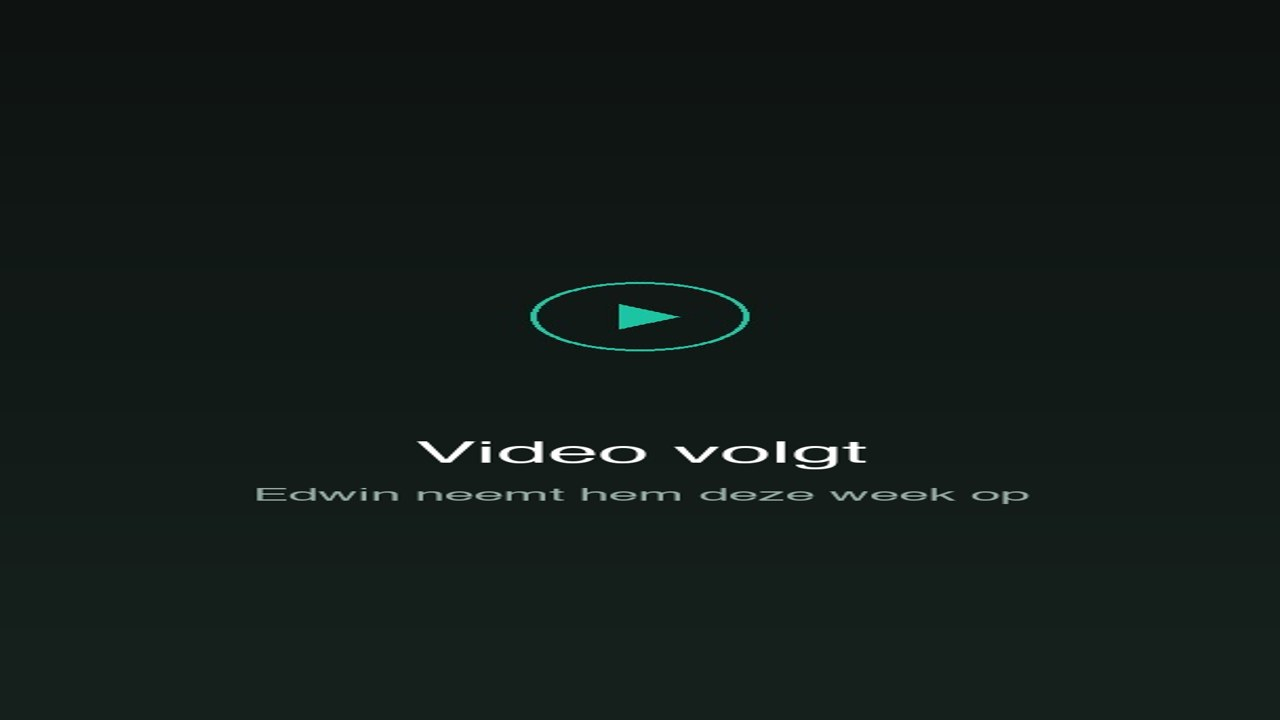
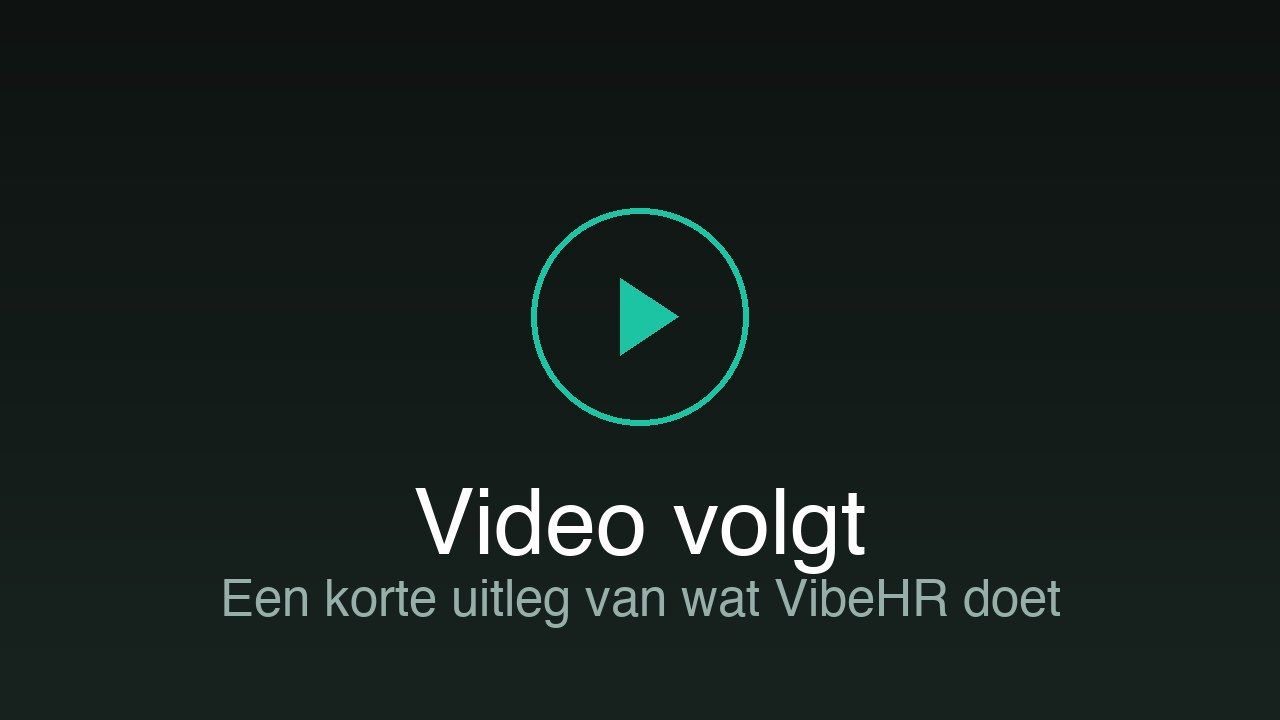
VibeHR: dossier leesbaar, stappen uitgelijnd, video is productuitleg
Drie dingen uit Simons review van 15 oktober.

1. 'Dit is wat ik vond' stond in lichte letters op een licht vlak. lp12.css
   geeft .dosveld een achtergrond via --wit en --chrome, en op een donker
   thema klopt dat niet. Het paneel is nu donker in hun eigen kaartstijl.
2. De vier stappen stonden op 900px terwijl de video 720 is, dus niet
   centraal eronder. Nu dezelfde breedte.
3. De video is geen opname van Edwin maar een uitleg van wat VibeHR doet.
   Teksten en de placeholder aangepast.

Daarnaast een agentkaart in het hoofdstuk Wat dat betekent, in hun eigen
UI-taal, als gebouwd element tussen de lopende tekst.

diff --git a/vibe-hr/it-novative.html b/vibe-hr/it-novative.html
@@ -28,7 +28,7 @@
   window.PQ_TERUGBEL_URL = 'https://script.google.com/macros/s/AKfycby37aGED41tyit5g9IemLY07prmG6J8CIERkkrYSxl92H3aBGCCui-G2stGXMDaUNsngQ/exec';
   window.PIQUE_INTRO     = { bedrijf: "iT-novative", voornaam: "Teun",
     tempo: 33, pauze: 420, merk: false,
-    ctaSub: "Video van Edwin &middot; volgt",
+    ctaSub: "Bekijk wat VibeHR doet &middot; volgt",
     regels: ["Hoi Teun.", "Deze kaart lag niet toevallig|op je bureau.", "Ik heb even gekeken|naar iT-novative.", "*Wil je weten wat ik zag?*"] };
 </script>
 <script src="lp-intro.js"></script>
@@ -76,6 +76,37 @@
 .wm b{font-weight:700;letter-spacing:-.01em;font-size:1.02rem}
 .wm i{font-style:normal;font-size:.5rem;letter-spacing:.19em;opacity:.62;margin-top:.17rem}
 .wm-ft b{font-size:.95rem}
+
+/* ── donker merk: het dossier is een paneel in hun eigen kaartstijl ──────
+   lp12.css geeft .dosveld een lichte achtergrond met --wit en --chrome.
+   Op een donker thema staat daar lichte tekst op, en dan is 'Dit is wat ik
+   vond' onleesbaar. Hier wordt het paneel donker, zoals de kaarten op
+   vibehr.nl. */
+.dosveld{background:var(--kaart);border-color:var(--kaart-rand);
+  box-shadow:0 1px 2px rgba(0,0,0,.3),0 20px 40px -26px rgba(0,0,0,.8)}
+.dv-bar{background:var(--kaart-kop)}
+.dv-bar:hover{background:var(--kaart-rand)}
+.dv-t,.dv-n{color:var(--ink)}
+.dv-rij,.dv-rij *{color:var(--ink2)}
+.dv-rij b,.dv-rij strong{color:var(--ink)}
+
+/* ── de stappen stonden op 900px terwijl de video 720 is ───────────────── */
+.hb-stage + .flow{width:min(720px,100%);margin-inline:auto}
+
+/* ── een agentkaart, zoals het blok op hun eigen voorpagina ────────────── */
+.agentk{width:min(560px,100%);margin:1.6rem 0 0;background:var(--kaart);
+  border:1px solid var(--kaart-rand);border-radius:var(--r-kaart);padding:1rem 1.1rem}
+.agentk-kop{display:flex;align-items:center;gap:.5rem;margin-bottom:.7rem}
+.agentk-kop i{width:22px;height:22px;border-radius:7px;flex:none;
+  background:linear-gradient(135deg,var(--accent),var(--accent-h))}
+.agentk-kop span{font-size:.6rem;letter-spacing:.16em;color:var(--ink3)}
+.agentk-t{margin:0 0 .9rem;font-size:.95rem;line-height:1.5;color:var(--ink)}
+.agentk-t b{color:var(--accent);font-weight:600}
+.agentk-kn{display:flex;gap:.5rem;flex-wrap:wrap}
+.agentk-kn span{font-size:.76rem;padding:.4rem .8rem;border-radius:var(--r-pil)}
+.agentk-kn span:first-child{background:var(--accent);color:var(--op-accent);font-weight:600}
+.agentk-kn span+span{border:1px solid var(--kaart-rand);color:var(--ink2)}
+.agentk-vt{margin:.75rem 0 0;font-size:.64rem;color:var(--ink3)}
 </style>
 </head>
 <body>
@@ -117,7 +148,7 @@
       </div>
       <button class="vrow" id="vrow" type="button">
         <span class="vthumb"><span class="vring"></span><img src="edwin-staand-poster.jpg" alt=""><span class="vplay"></span></span>
-        <span><b>Liever horen dan lezen?</b>Edwin neemt hem deze week op</span>
+        <span><b>Liever horen dan lezen?</b> Een korte uitleg van wat VibeHR doet</span>
       </button>
       <div class="scrollcue"><i></i><span>Scroll</span></div>
     </div>
@@ -200,6 +231,12 @@
       <div class="ch-body"><div class="ch-eyebrow">Wat dat betekent</div><h2 class="ch-kop">Een overdracht is het enige moment waarop je de inrichting nog kunt kiezen.</h2>
         <p class="ch-text">Zolang iemand het al jaren doet, zit de werkwijze in zijn hoofd en loopt het. Op het moment dat je het overdraagt, draag je over wat er ligt. Dat is meteen de enige keer dat opnieuw inrichten niemand extra werk kost, want die persoon moet het zich toch eigen maken. Daarna zit je er weer jaren aan vast.</p>
         <p class="ch-pull">Wat je overdraagt, is wat er de komende jaren staat.</p>
+        <div class="agentk">
+          <div class="agentk-kop"><i></i><span>MELDING VAN DE AGENT</span></div>
+          <p class="agentk-t">Er komt een <b>office manager</b> bij. Zal ik de overdracht van de loonadministratie klaarzetten?</p>
+          <div class="agentk-kn"><span>Ja, zet klaar</span><span>Bekijk details</span></div>
+          <p class="agentk-vt">Zo ziet een melding van VibeHR eruit.</p>
+        </div>
       </div>
     </div>
   </section>
@@ -268,7 +305,7 @@
     <h2 class="hb-h">VibeHR bij een team als het jouwe</h2>
     <div class="hb-stage">
       <div class="vslhouder">
-        <button class="vslbox" type="button" aria-label="Speel de video van anderhalve minuut af">
+        <button class="vslbox" type="button" aria-label="Speel de uitleg van VibeHR af">
           <img src="vsl-poster.jpg" alt="">
           <span class="vslplay"></span><span class="vslduur"></span>
         </button>

diff --git a/vibe-hr/thema-vibehr.css b/vibe-hr/thema-vibehr.css
@@ -69,6 +69,10 @@
   /* ── maten ──────────────────────────────────────────────── */
   --fs-h:clamp(1.9rem,3vw,2.7rem);
   --fs-body:clamp(1.02rem,1.25vw,1.16rem);
+  /* kaarten liggen iets opgetild boven de grond, zoals op vibehr.nl */
+  --kaart:#141B19;
+  --kaart-kop:#18221F;
+  --kaart-rand:rgba(232,239,236,.13);
   --dock:0px;
 }
 @font-face{font-family:'The Seasons';src:url('theseasons-regular.woff2') format('woff2');
